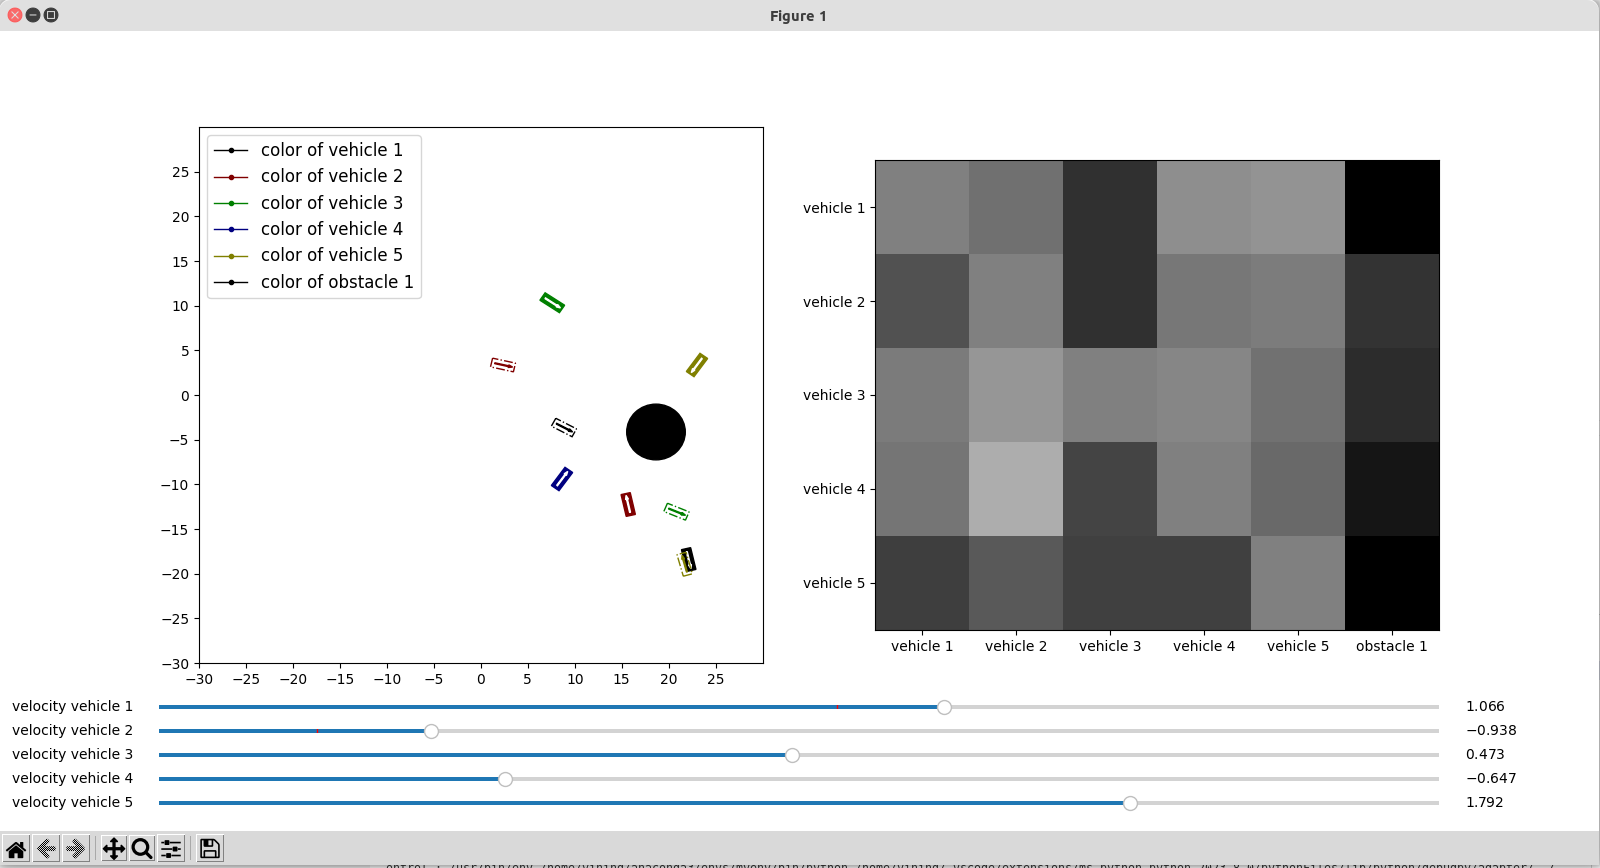
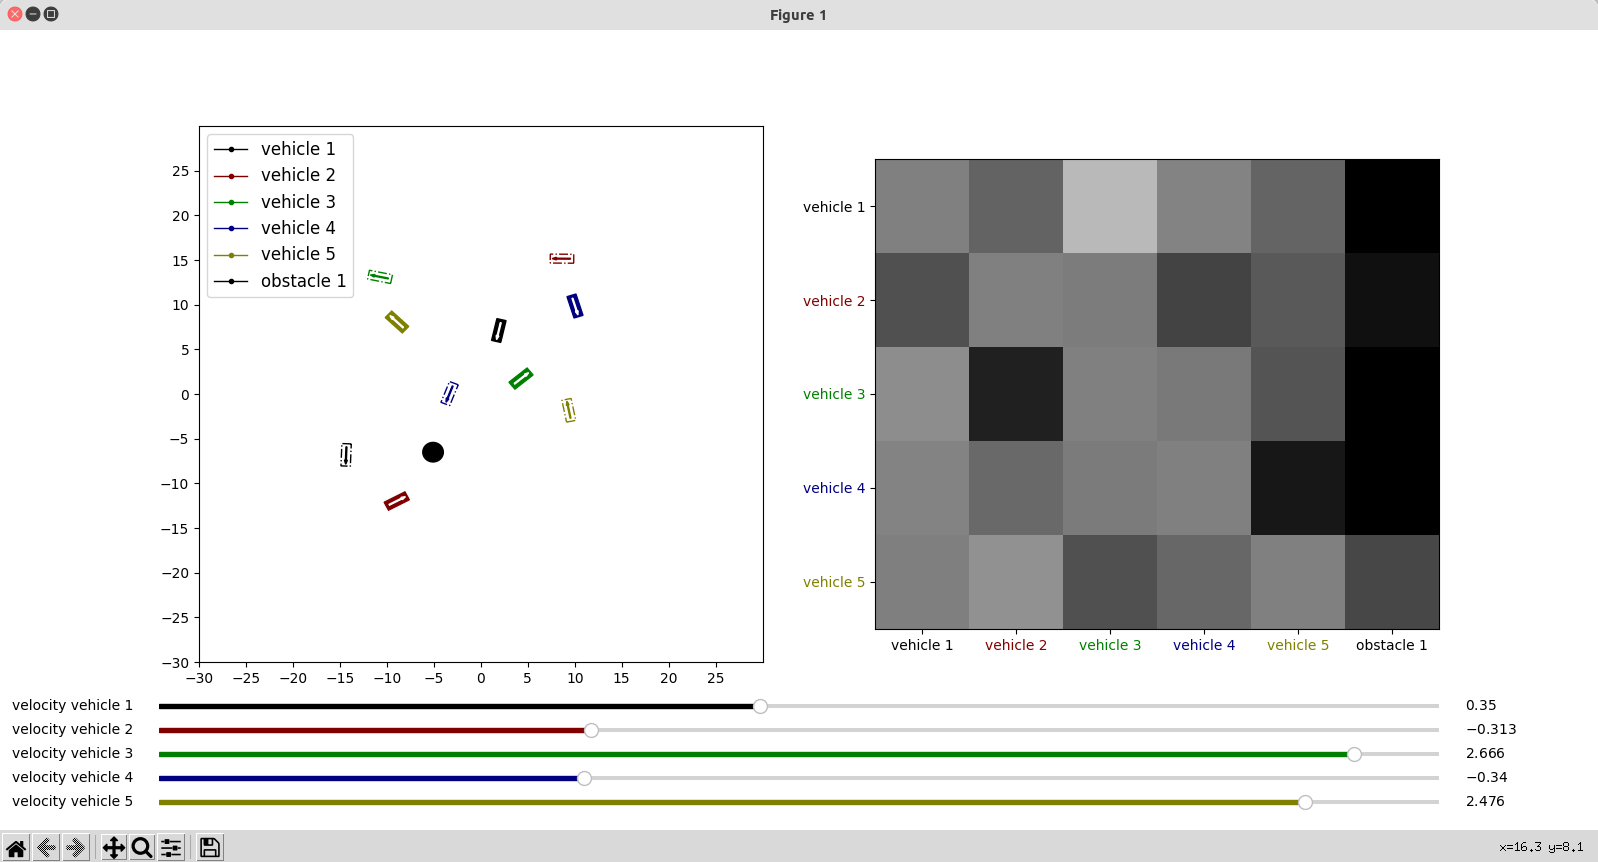
modify visualization tool

diff --git a/visualization.py b/visualization.py
@@ -100,12 +100,12 @@ class Visualize_Attention:
 
             self.frame = plt.text(12, 12, "", fontsize=15)
     
-            vehicle_mark, = self.ax.plot([], [], color=self.cmap[i], marker='.', linewidth=1, label=f"color of vehicle {i+1}")
+            vehicle_mark, = self.ax.plot([], [], color=self.cmap[i], marker='.', linewidth=1, label=f"vehicle {i+1}")
         
         for i, obs in enumerate(self.simulation_options["obstacles"]):
             self.patch_obs.append(mpatches.Circle(obs[:2], obs[2], color=self.cmap[i], fill=True))
             self.ax.add_patch(self.patch_obs[-1])
-            obstacle_mark, = self.ax.plot([], [], color=self.cmap[i], marker='.', linewidth=1, label=f"color of obstacle {i+1}")
+            obstacle_mark, = self.ax.plot([], [], color=self.cmap[i], marker='.', linewidth=1, label=f"obstacle {i+1}")
         
           
         self.ax.legend(loc='upper left', fontsize=12)
@@ -154,9 +154,10 @@ class Visualize_Attention:
                     valmin=-2,
                     valmax=3,
                     valinit=self.simulation_options["start"][i, 3],
+                    color=self.cmap[i]
                     # orientation="vertical"
                 ))       
-                
+                                
                 self.update.append(Update(i, self))
                 self.velocity_slider[i].on_changed(self.update[i].update)
             
@@ -202,6 +203,13 @@ class Visualize_Attention:
                                         [f"obstacle {i+1}" for i in range(self.simulation_options["num of obstacles"])])
         self.ax_.set_yticks(ticks=[i for i in range(self.simulation_options["num of vehicles"])],
                             labels = [f"vehicle {i+1}" for i in range(self.simulation_options["num of vehicles"])])
+        
+        for i in range(self.simulation_options["num of vehicles"]):
+            self.ax_.get_xticklabels()[i].set_color(self.cmap[i])
+            self.ax_.get_yticklabels()[i].set_color(self.cmap[i])
+        
+        for i in range(self.simulation_options["num of obstacles"]):
+            self.ax_.get_xticklabels()[i+self.simulation_options["num of vehicles"]].set_color(self.cmap[i])        
         
         # plt.show()
 

diff --git a/README.md b/README.md
@@ -149,5 +149,5 @@ Moving the slider on the bar can change the corresponding velocity of the vehicl
 Clicking and draging the obstacle can change the position of it.
 Clicking and scrolling the obstacle can change the size of it.
 
-You can also change the number of vehicle and num of obstacle in the scene by modifying the problem collection in "config/visualize_attention.yaml"
+You can also change the number of vehicle and num of obstacle in the scene by modifying the problem collection in [configuration](./configs/visualize_attention.yaml#L23)
 
